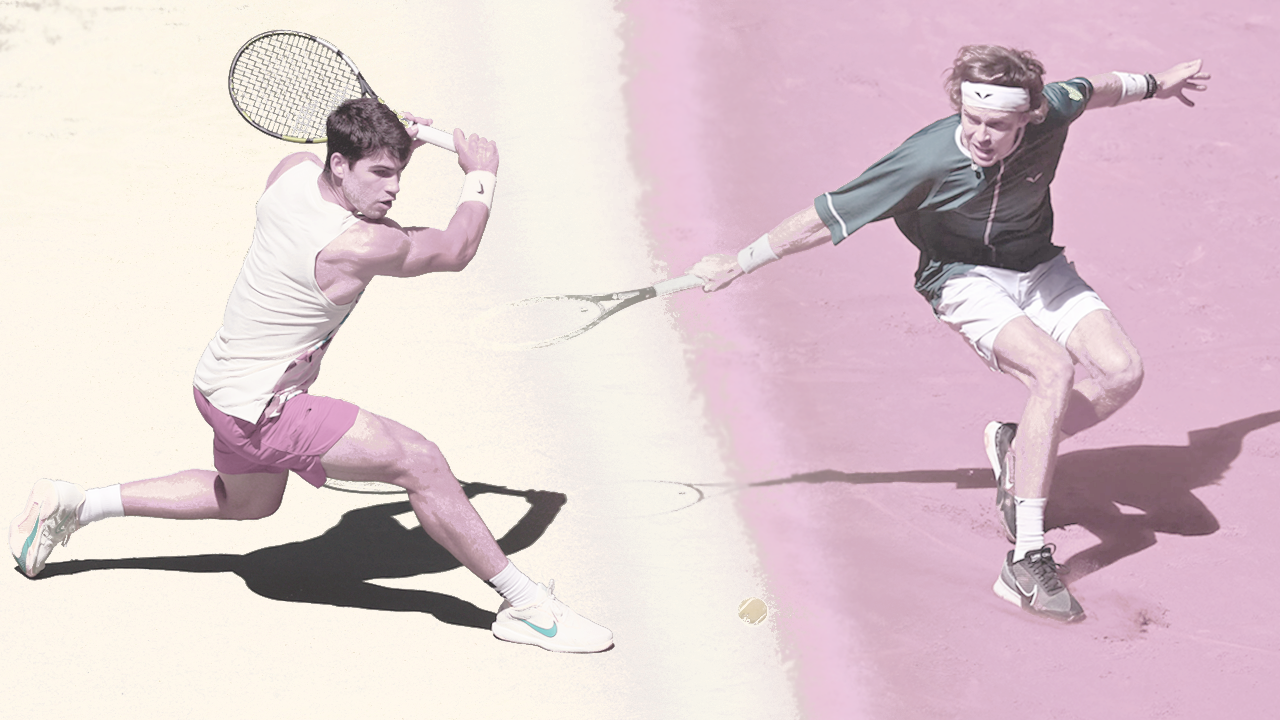
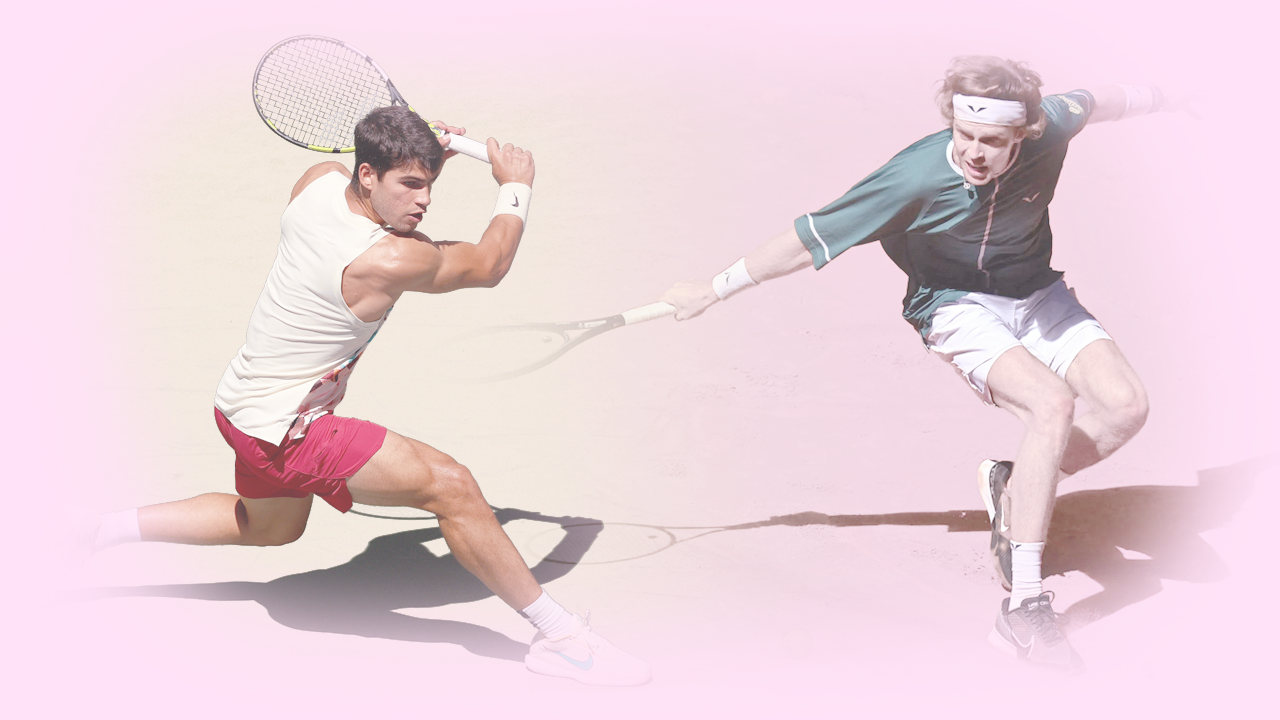
Updated hero image

diff --git a/style.css b/style.css
@@ -85,7 +85,7 @@ color: #ddc2d7;
 
 }
 #pagecontent {
-  background-color: #ffdef7;
+  background-color: #ffe2f7;
   min-height: 10rem;
   padding: 1rem;
 }
@@ -197,7 +197,7 @@ audio {
 {
   #pagecontent
   {
-    background-color: #ffdef7;
+    background-color: #ffe2f7;
   }
   #career{
     background-color: #ffccf1;
